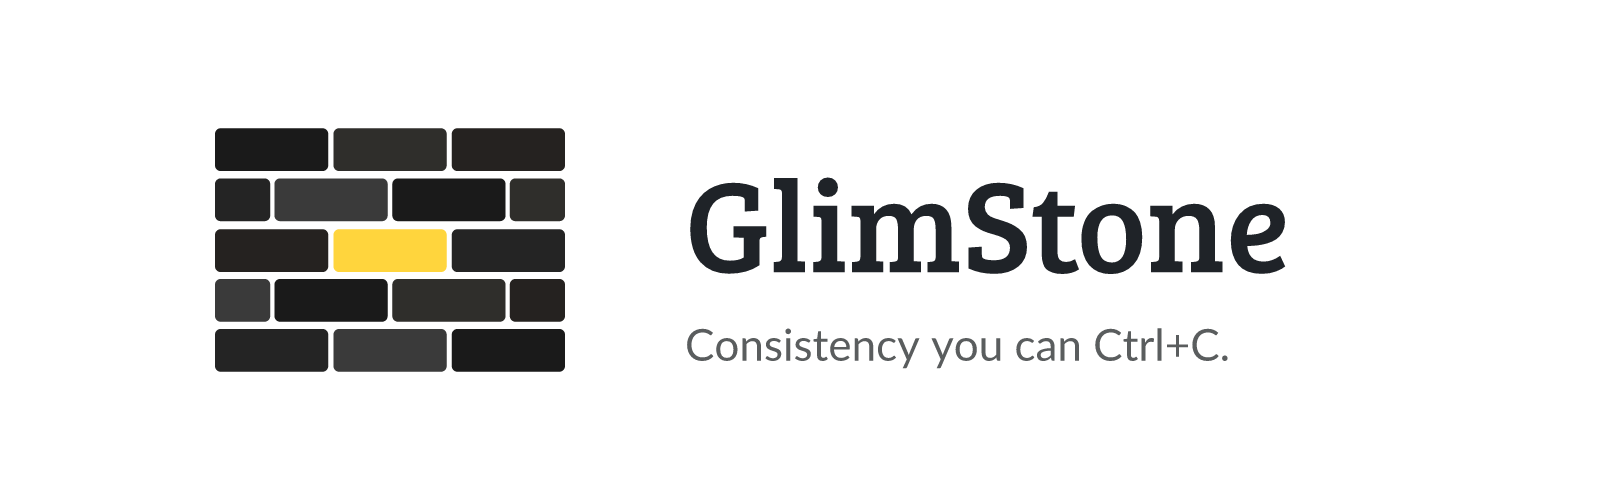
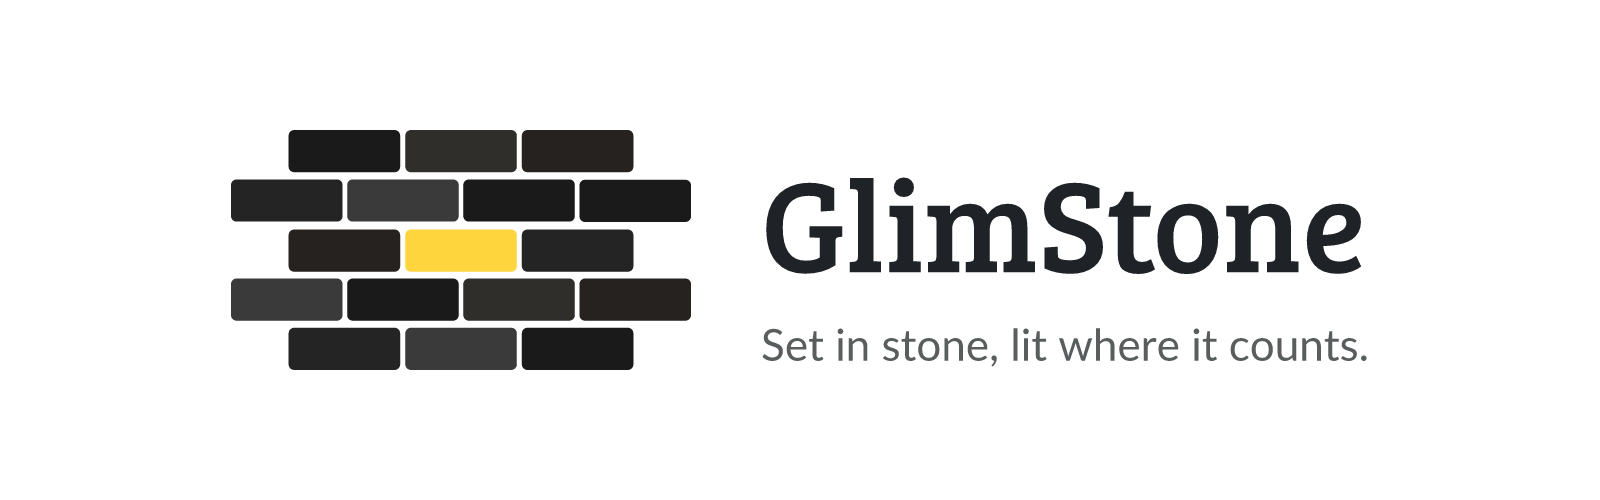
Lay the mark as a running bond and set a new claim

Changed region(s): [[0.125, 0.24, 0.875, 0.75]]

diff --git a/CHANGELOG.md b/CHANGELOG.md
@@ -3,6 +3,11 @@
 All notable changes to the GlimStone design language are documented here. Versioned independently of any app that adopts it.
 ## Unreleased
 
+## 🎨 Design
+
+- **A new mark.** The wall is a running bond of whole stones with stepped ends, where it used to be a square with half stones at the edges, and the one gold stone still sits at its centre. The pale and the dark mark keep the same arrangement of shades.
+- **A new claim:** "Set in stone, lit where it counts."
+
 ## ⚡ Improved
 
 - Tidied the code comments and log messages.
